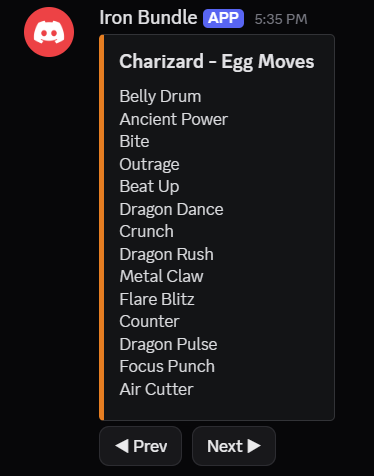
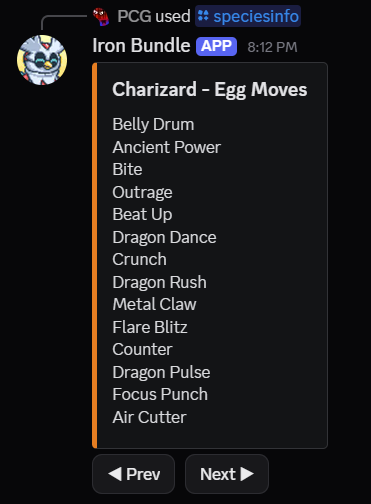
Switch to slash commands

Changed region(s): [[0.0296, 0.0, 0.8895, 0.9706], [0.7116, 0.9412, 0.7412, 0.9706], [0.2372, 0.9412, 0.2668, 0.9706]]

diff --git a/cogs/speciesinfo.py b/cogs/speciesinfo.py
@@ -1,11 +1,19 @@
-# Command: !speciesinfo <species_name / natdex_num>
+# Command: /speciesinfo <species_name / natdex_num>
 
 import discord
 from discord.ext import commands
+from discord import app_commands
 import json
 
-with open("data/species_info.json", "r", encoding="utf-8") as f:
-    pokemon_data = json.load(f)
+try:
+    with open("data/species_info.json", "r", encoding="utf-8") as f:
+        pokemon_data = json.load(f)
+except FileNotFoundError:
+    print("ERROR: species_info.json file not found!")
+    pokemon_data = []
+except json.JSONDecodeError:
+    print("ERROR: Invalid JSON format in species_info.json!")
+    pokemon_data = []
 
 
 def build_embed(species, page: int):
@@ -83,28 +91,58 @@ class SpeciesInfo(commands.Cog):
     def __init__(self, bot):
         self.bot = bot
 
-    @commands.command()
-    async def speciesinfo(self, ctx, *, query: str):
-        query = query.strip().lower()
-        result = None
+    def _get_species_autocomplete(self):
+        """Helper function to get all species names for autocomplete"""
+        return [species["speciesName"] for species in pokemon_data]
 
-        for species in pokemon_data:
-            # Handle both numbers and names
-            if query.isdigit():
-                if int(query) == int(species["natDexNum"]):
-                    result = species
-                    break
+    async def species_autocomplete(
+        self,
+        interaction: discord.Interaction,
+        current: str
+    ) -> list[app_commands.Choice[str]]:
+        species_names = self._get_species_autocomplete()
+        return [
+            app_commands.Choice(name=name, value=name)
+            for name in species_names
+            if current.lower() in name.lower()
+        ][:25]  # Discord limits to 25 choices
+
+    @app_commands.command(
+        name="speciesinfo",
+        description="Get information about a Pokémon species"
+    )
+    @app_commands.describe(query="The Pokémon name or National Dex number")
+    @app_commands.autocomplete(query=species_autocomplete)
+    async def speciesinfo(self, interaction: discord.Interaction, query: str):
+        try:
+            query = query.strip().lower()
+            result = None
+
+            for species in pokemon_data:
+                # Handle both numbers and names
+                if query.isdigit():
+                    if int(query) == int(species["natDexNum"]):
+                        result = species
+                        break
+                else:
+                    if query == species["speciesName"].lower():
+                        result = species
+                        break
+
+            if result:
+                embed = build_embed(result, 1)
+                view = SpeciesView(result)
+                await interaction.response.send_message(embed=embed, view=view)
             else:
-                if query == species["speciesName"].lower():
-                    result = species
-                    break
+                await interaction.response.send_message(f"No Pokémon found for '{query}'", ephemeral=True)
 
-        if result:
-            embed = build_embed(result, 1)
-            view = SpeciesView(result)
-            await ctx.send(embed=embed, view=view)
-        else:
-            await ctx.send(f"No Pokémon found for '{query}'")
+        except ValueError:
+            await interaction.response.send_message("Please enter a valid number for National Dex search.", ephemeral=True)
+        except KeyError as e:
+            await interaction.response.send_message(f"Data format error: Missing key {e}", ephemeral=True)
+        except Exception as e:
+            await interaction.response.send_message(f"An unexpected error occurred: {e}", ephemeral=True)
+            print(f"Error in speciesinfo command: {e}")
 
 
 async def setup(bot):

diff --git a/main.py b/main.py
@@ -5,14 +5,20 @@ import logging
 from dotenv import load_dotenv
 
 load_dotenv()
-TOKEN = os.getenv("BOT_TOKEN")
-if TOKEN is None:
+BOT_TOKEN = os.getenv("BOT_TOKEN")
+SERVER_ID = os.getenv("SERVER_ID")
+
+if BOT_TOKEN is None:
     raise ValueError("BOT_TOKEN not set in .env")
+if SERVER_ID is None:
+    raise ValueError("SERVER_ID not set in .env")
+
+TESTING = False
 
 handler = logging.FileHandler(filename='logs/discord.log', encoding='utf-8', mode='w')
 
 intents = discord.Intents.all()
-intents.message_content = True
+intents.message_content = False
 
 bot = commands.Bot(command_prefix="!", intents=intents)
 
@@ -20,11 +26,31 @@ bot = commands.Bot(command_prefix="!", intents=intents)
 @bot.event
 async def on_ready():
     print(f"{bot.user.name} is online!")
+    
+    try:
+        if TESTING:
+            guild = discord.Object(id=int(SERVER_ID))
+            bot.tree.copy_global_to(guild=guild)
+            synced = await bot.tree.sync(guild=guild)
+            print(f"Synced {len(synced)} command(s) to guild {SERVER_ID}")
+        else:
+            synced = await bot.tree.sync()
+            print(f"Synced {len(synced)} command(s) globally")
+        
+    except Exception as e:
+        print(f"Failed to sync commands: {e}")
 
 
 async def main():
-    await bot.load_extension("cogs.speciesinfo")
-    await bot.start(TOKEN)
+    for filename in os.listdir("./cogs"):
+        if filename.endswith(".py"):
+            try:
+                await bot.load_extension(f"cogs.{filename[:-3]}")
+                print(f"Loaded cog: {filename[:-3]}")
+            except Exception as e:
+                print(f"Failed to load cog {filename}: {e}")
+    
+    await bot.start(BOT_TOKEN)
 
 if __name__ == "__main__":
     import asyncio

diff --git a/README.md b/README.md
@@ -1,18 +1,14 @@
 # Iron Bundle
 
-Iron Bundle is a Pokedex-like Discord bot.
+Iron Bundle is a Pokédex-like Discord bot.
 
-Run command `!speciesinfo <species_name>` or `!speciesinfo <natdex_num>` to check a Pokemon's information.
+Run command `/speciesinfo <species_name>` or `/speciesinfo <natdex_num>` to check a Pokémon's information.
 
 Eg:
 
-`!speciesinfo Charizard`
+`/speciesinfo query:Iron Bundle`
 
-![speciesinfo_name](pics/speciesinfo_name.png)
-
-`!speciesinfo 6`
-
-![speciesinfo_num](pics/speciesinfo_num.png)
+![speciesinfo](pics/speciesinfo.png)
 
 Page 2: Level Up moves
 
